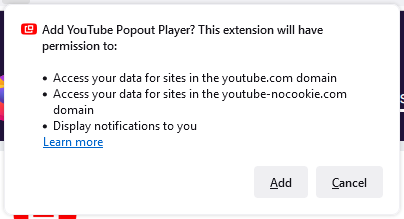
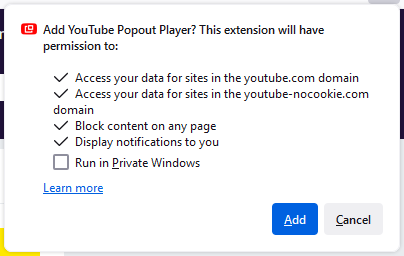
updated documentation and screenshots permissions for v5

diff --git a/docs/pages/permissions.html b/docs/pages/permissions.html
@@ -28,6 +28,7 @@ order: 2
                     <ul class="collection with-header">
                         <li class="collection-header grey lighten-4"><h6>Permissions Requested in <a href="#modal-chrome-required-permissions-screenshot" class="red-text modal-trigger tooltipped" data-tooltip="View Screenshot">Google Chrome <i class="material-icons tiny">image</i></a> &amp; <a href="#modal-edge-required-permissions-screenshot" class="red-text modal-trigger tooltipped" data-tooltip="View Screenshot">Microsoft Edge <i class="material-icons tiny">image</i></a></h6></li>
                         <li class="collection-item"><i class="material-icons tiny">check</i> Read and change your data on all youtube-nocookie.com sites and all youtube.com sites</li>
+                        <li class="collection-item"><i class="material-icons tiny">check</i> Block content on any page <span class="badge red white-text">New in v5.0</span></li>
                         <li class="collection-item"><i class="material-icons tiny">check</i> Display notifications</li>
                     </ul>
                 </div>
@@ -39,18 +40,32 @@ order: 2
                         <li class="collection-header grey lighten-4"><h6>Permissions Requested in <a href="#modal-firefox-required-permissions-screenshot" class="red-text modal-trigger tooltipped" data-tooltip="View Screenshot">Mozilla Firefox <i class="material-icons tiny">image</i></a></h6></li>
                         <li class="collection-item"><i class="material-icons tiny">check</i> Access your data for sites in the youtube.com domain</li>
                         <li class="collection-item"><i class="material-icons tiny">check</i> Access your data for sites in the youtube-nocookie.com domain</li>
+                        <li class="collection-item"><i class="material-icons tiny">check</i> Block content on any page <span class="badge red white-text">New in v5.0</span></li>
                         <li class="collection-item"><i class="material-icons tiny">check</i> Display notifications to you</li>
                     </ul>
                 </div>
             </div>
+            <div class="valign-wrapper">
+                <i class="small material-icons red-text">report</i>&nbsp;<span>Screenshots of new permissions when updating YouTube Popout Player in <a href="#modal-chrome-updated-permissions-screenshot" class="red-text modal-trigger tooltipped" data-tooltip="View Screenshot">Google Chrome <i class="material-icons tiny">image</i></a> and <a href="#modal-firefox-updated-permissions-screenshot" class="red-text modal-trigger tooltipped" data-tooltip="View Screenshot">Mozilla Firefox <i class="material-icons tiny">image</i></a></span></div>
         </div>
 
-        <div class="card-body">
-            <p><strong>Read/Access Data: This extensions does not read (or collect) or modify any of your data at all.</strong></p>
-            <p>This permission is used to add the controls (button and context menu) and listen for the keyboard shortcut, which are used to open the popout player, on YouTube videos. This permission is requested for both the primary <code class="red-text">youtube.com</code> domain and the alternate <code class="red-text">youtube-nocookie.com</code> domain (which is Google's attempt to provide a version of YouTube that has fewer tracking cookies), as these are the domains where YouTube videos are hosted.</p>
-            <p><strong>Notifications: This extensions only shows a notification if the popout player cannot be opened at all.</strong></p>
-            <p>In the extremely unlikely event that the popout player cannot be opened at all, a notification is displayed so that you know it tried but failed. Otherwise, it would seem like nothing happened at all, which can be confusing.</p>
-        </div>
+        <dl class="card-body">
+            <dt style="font-weight: 600;">Read/Access Data:<br>This extensions does not read (or collect) or modify any of your data at all.</dt>
+            <dd>
+                <p>This permission is used to add the controls (button and context menu) and listen for the keyboard shortcut, which are used to open the popout player, on YouTube videos. This permission is requested for both the primary <code class="red-text">youtube.com</code> domain and the alternate <code class="red-text">youtube-nocookie.com</code> domain (which is Google's attempt to provide a version of YouTube that has fewer tracking cookies), as these are the domains where YouTube videos are hosted.</p>
+            </dd>
+            <dt style="font-weight: 600;">Block Content:<span class="badge red white-text">New in v5.0</span><br>This extension does not block any content at all, nor does it run on any pages other than the popout player.</dt>
+            <dd>
+                <p>This is part of the big Manifest v3 changes that Chrome has pushed. The permission is "<code>declarativeNetRequest</code>" and is needed to set the "<code>Referer</code>" header for the popup player; without that header being set, many videos do not play in the popout player.</strong></p>
+                <p>This was previously accomplished via the "<code>webRequest</code>" and "<code>webRequestBlocking</code>" permissions that allowed code to run when the network requests were being executed (similar to how ad-blockers function), but those permissions and the corresponding functionality have been removed in Chrome for Manifest v3.</p>
+                <p>This is only used for the embedded player page on the primary <code class="red-text">youtube.com</code> domain and the alternate <code class="red-text">youtube-nocookie.com</code> domain.</p>
+                <p>You can view the <strong>static rules</strong> file associated with the "<code>declarativeNetRequest</code>" permission here: <a class="red-text" href="https://github.com/rthaut/YouTubePopoutPlayer/blob/master/app/rules.json" rel="nofollow">rules.json</a></p>
+            </dd>
+            <dt style="font-weight: 600;">Notifications:<br>This extensions only shows a notification if the popout player cannot be opened at all.</dt>
+            <dd>
+                <p>In the extremely unlikely event that the popout player cannot be opened at all, a notification is displayed so that you know it tried but failed. Otherwise, it would seem like nothing happened at all, which can be confusing.</p>
+            </dd>
+        </dl>
     </div>
 
 </section>
@@ -85,24 +100,27 @@ order: 2
             </div>
         </div>
 
-        <div class="card-body">
-            <p><strong>This extension does not read (or collect) your browsing history at all.</strong></p>
-            <p>The Tabs permission is used to close the original window/tab (when configured via the "Close Original Window/Tab" option) after opening the popout player.</p>
-            <p><strong>Denying this permission</strong> will disable the use of the <a class="red-text" href="{{ '/options#advanced' | relative_url }}">"Close Original Window/Tab" setting</a>.</p>
-        </div>
+        <dl class="card-body">
+            <dt style="font-weight: 600;">Browser History/Tabs:<br>This extension does not read (or collect) your browsing history at all.</dt>
+            <dd>
+                <p>The Tabs permission is used to close the original window/tab (when configured via the "Close Original Window/Tab" option) after opening the popout player.</p>
+                <p><strong>Denying this permission</strong> will disable the use of the <a class="red-text" href="{{ '/options#advanced' | relative_url }}">"Close Original Window/Tab" setting</a>.</p>
+            </dd>
+        </dl>
     </div>
 
 </section>
 
 <!-- Modals with Screenshots -->
 {% assign required = site.data.screenshots | where:"type","permission-required" %}
+{% assign updated = site.data.screenshots | where:"type","permission-updated" %}
 {% assign optional = site.data.screenshots | where:"type","permission-optional" %}
-{% assign screenshots = required | concat: optional %}
+{% assign screenshots = required | concat: updated | concat: optional %}
 {% for screenshot in screenshots %}
 <div id="modal-{{screenshot.name | slugify}}-screenshot" class="modal">
     <div class="modal-content center white">
         <img class="responsive-img" src="{{ screenshot.path | relative_url }}" alt="Popout Player {{screenshot.name}}" />
-        <p class="text-left"><em>Screenshots are taken from <strong>v4.0</strong> and <strong>v4.1</strong> and may not accurately represent current functionality.</em></p>
+        <p class="text-left"><em>Screenshots are taken from <strong>v4.0</strong>, <strong>v4.1</strong>, and <strong>v5.0</strong>, and may not accurately represent current functionality.</em></p>
     </div>
     <div class="modal-footer">
         <button class="btn red modal-close"><i class="material-icons left">close</i> Close</button>
